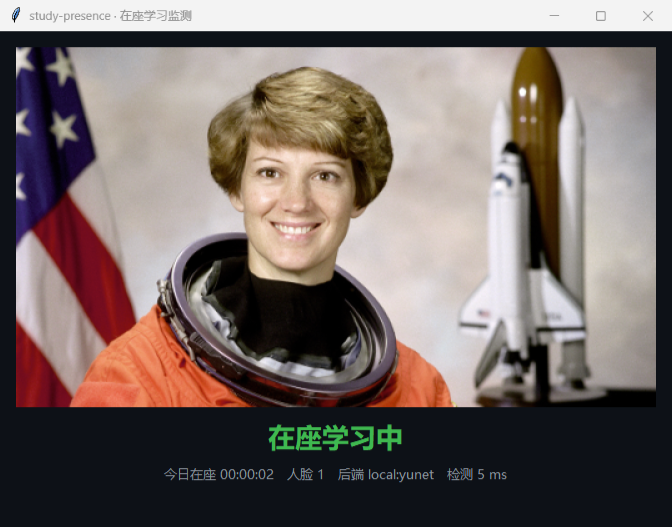
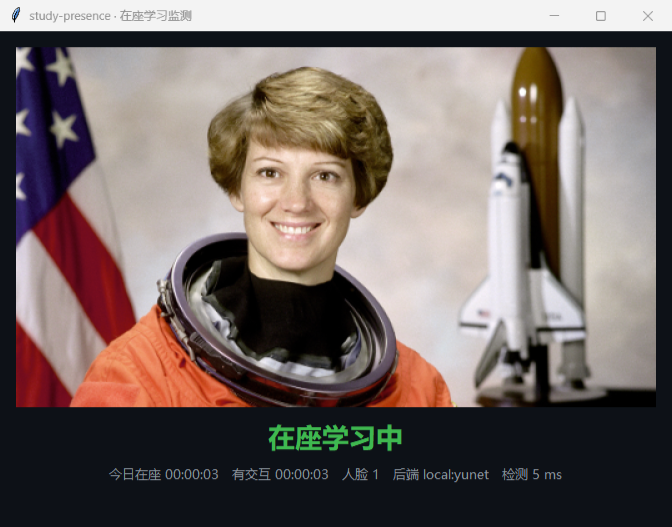
docs: 重写判定逻辑与已知局限

Changed region(s): [[0.1562, 0.8805, 0.8438, 0.9108]]

diff --git a/README.md b/README.md
@@ -1,39 +1,59 @@
 # study-presence
 
-摄像头在座学习状态监测：定时取帧 → 人脸检测 → 去抖状态机 → 在座时长入库，Tkinter 窗口实时展示。
+摄像头在座学习状态监测：合格人脸 → 时间窗去抖 → 键鼠交互证据 → 三态（离座 / 在座无交互 / 在座有交互），区间写入 SQLite，Tk 窗口实时显示，可按天出报表。
 
 检测后端可插拔：默认本地离线 OpenCV YuNet（画面不出本机、零调用成本），可切到百度云人脸检测 API。
 
 ![study-presence 运行截图](docs/screenshot.png)
 
-## 功能
+## 判定逻辑
 
-- 实时预览 + 「在座 / 离座」状态，连续 N 次观测才翻转，抑制单帧误检与短暂起身
-- 今日累计在座时长：每次在座区间写入 SQLite，程序重启后仍可累加
-- 后端可切换：`local`（离线 YuNet）／`baidu`（云端 detect，密钥只从 `.env` 读）
-- 失败不静默：检测或相机出错时把原因显示在窗口里，不把网络错误伪装成「没人」
-- 在座时长报表：按天切分历史记录，输出合计与日均，可导出 CSV
+「这个人正在学习」不是人脸检测器能回答的问题。所以这里不宣称测量专注度，只输出两个可观测、可复核的量：**在座时长**与**有交互时长**。
+
+| 状态 | 判据 |
+|---|---|
+| 离座 | 画面中央区域内没有面积达标的人脸 |
+| 在座 · 无交互 | 有合格人脸，但最近 `SP_ACTIVITY_IDLE_S` 秒内没有键鼠输入 |
+| 在座 · 有交互 | 有合格人脸，且有近期键鼠输入 |
+
+三步链：
+
+1. **合格人脸**（`app/presence/criteria.py`）：人脸框中心落在画面中央 ROI（默认横向 0.2–0.8、纵向 0.05–0.95），且面积占整帧 ≥ `SP_MIN_FACE_AREA`（默认 2%）。海报、路人、远处室友都在这一步被过滤掉。
+2. **时间窗去抖**（`app/presence/tracker.py`）：占据状态要连续满足阈值秒数才翻转（`SP_PRESENT_AFTER_S` / `SP_ABSENT_AFTER_S`）。单位是秒不是检测次数，改 `--interval` 不会改变判定的时间尺度。
+3. **交互证据**（`app/activity.py`）：Windows 下读 `GetLastInputInfo` 的空闲时长，只取秒数、不取任何输入内容；其他平台降级为纯视觉，界面显示「交互检测不可用」。
+
+由此得到两个数字：**在座时长**（全部区间合计）与**有交互时长**（只算 active 区间）。
+
+### 已知局限
+
+- 低头看书、大幅侧脸可能检测不到人脸 → 会被判成离座。这是正脸检测模型的固有限制，不引入更重的头部姿态模型就解决不了
+- 键鼠在动说明不了在学；在座无交互也可能是在看书。两个数字都以「可观测证据」命名，不叫「专注度」
+- 多人同框只判断「有没有合格人脸」，不区分是不是本人；室友坐在同一位置会共享这份时长
+- 交互证据只有 Windows 实现，其他平台退化为「在座即有交互」
 
 ## 架构
 
 ```
-CameraSource ──frame──▶ PresenceMonitor (worker thread)
-                            │  每 N 秒
-                            ▼
-                     Detector (local:yunet | baidu:detect)
-                            │  face_count
-                            ▼
-                     PresenceTracker（去抖状态机）
-                            │  PresenceEvent
-                            ▼
-                     PresenceStore（SQLite session 表）
+FrameSource ──frame──▶ PresenceMonitor (worker thread)
+                          │  每 N 秒检测
+                          ▼
+                  Detector (local:yunet | baidu:detect)
+                          │  DetectionResult（归一化人脸框）
+                          ▼
+                  PresenceCriteria（ROI + 面积过滤）
+                          │  occupied
+                          ▼
+                  PresenceTracker（秒级去抖）◀── ActivitySource（键鼠空闲时长）
+                          │  PresenceEvent（absent | idle | active）
+                          ▼
+                  PresenceStore（SQLite session 表，按 state 区分区间）
 
-     FrameUpdate / StatusUpdate ──queue──▶ StudyPresenceWindow（Tk 主线程）
+   FrameUpdate / StatusUpdate ──queue──▶ StudyPresenceWindow（Tk 主线程）
 ```
 
-- **单写者**：相机、检测器、存储只在 worker 线程里被触碰；UI 通过 `queue` 拿结果，不阻塞、不抢锁
+- **单写者**：相机、检测器、存储只在 worker 线程里被触碰；UI 通过两个队列拿结果，不阻塞、不抢锁
 - **帧不排队**：帧队列容量 1，UI 落后时丢弃旧帧，只渲染最新画面
-- **状态与时长分离**：`PresenceTracker` 只管去抖，`PresenceStore` 只管区间入库，跨天统计由 SQL 窗口裁剪得出
+- **判定与统计分离**：`criteria` 决定「算不算在座」，`tracker` 决定「什么时候翻转」，`store` 只管区间入库；报表与评估复用同一套纯函数
 - **异常显式化**：检测后端失败抛 `DetectorError`，由 worker 转成界面上的错误文案，不做 `except: pass`
 
 ## 快速开始
@@ -44,8 +64,6 @@ uv run study-presence          # 等价于 uv run python -m app
 ```
 
 首次运行 local 后端会自动下载 YuNet 模型（约 230 KB）到 `models/`；下载失败时按提示手动放到该路径即可。
-
-常用参数：
 
 ```bash
 uv run study-presence --camera 1        # 换摄像头
@@ -62,16 +80,47 @@ uv run study-presence --report 7      # 近 7 天
 uv run study-presence --report 30 --csv out/month.csv
 ```
 
-按天切分（跨午夜的会话会拆到两天），末尾给出合计与有记录天数的日均。报表只读 SQLite，不打开摄像头、不需要检测模型。
+按天切分（跨午夜的会话会拆到两天），每行给出在座与有交互两个时长，末尾是合计与有记录天数的日均。报表只读 SQLite，不打开摄像头、不需要检测模型。
 
 ```
-在座时长（近 7 天）
-2026-10-18  00:30:00
-2026-10-19  00:55:00
+在座 / 有交互时长（近 7 天）
+2026-10-18  在座 00:30:00  有交互 00:12:00
+2026-10-19  在座 00:55:00  有交互 00:41:00
 ...
-合计: 06:30:00
-有记录: 5 天，日均 01:18:00
+合计: 在座 06:30:00  有交互 03:05:00
+有记录: 5 天，日均在座 01:18:00
 ```
+
+## 判定质量评估
+
+阈值不该靠猜。准备一段标注好「何时有人、何时无人」的视频，用回放算出指标：
+
+标注 CSV（`label` 取 `absent` / `idle` / `active`；评估只判在座与否，所以 idle 与 active 都按在座计）：
+
+```csv
+start_s,end_s,label
+0,12,absent
+12,95,present
+```
+
+```bash
+uv run study-presence --evaluate demo.mp4 --labels demo.csv --stride 0.5
+uv run study-presence --evaluate demo.mp4 --labels demo.csv --sweep 0.005,0.01,0.02,0.05
+```
+
+输出（下列数字来自 12 秒合成视频：前 6 秒无人、后 6 秒有人，仅用于验证链路，不代表真实场景精度）：
+
+```
+在座判定：precision 1.000  recall 0.750  F1 0.857  准确率 0.880
+混淆矩阵：TP 9  FP 0  FN 3  TN 13
+
+最小人脸面积占比    precision  recall  F1
+0.005                  1.000   0.750  0.857
+0.020                  1.000   0.750  0.857
+0.200                  0.000   0.000  0.000
+```
+
+recall 0.75 来自 1 秒去抖延迟（人出现的瞬间不能立刻算在座），不是漏检。真实数值需要你用真实场景的视频标注后跑出来，`--sweep` 就是用来选阈值的。
 
 ## 配置
 
@@ -83,13 +132,16 @@ uv run study-presence --report 30 --csv out/month.csv
 | `SP_CAMERA_INDEX` | `0` | 摄像头编号 |
 | `SP_SOURCE` | — | 视频或图片文件路径；设置后忽略摄像头 |
 | `SP_DETECT_INTERVAL_S` | `2` | 检测间隔（秒） |
-| `SP_PRESENT_AFTER` | `2` | 连续几次检测到人脸才算在座 |
-| `SP_ABSENT_AFTER` | `3` | 连续几次没检测到人脸才算离座 |
+| `SP_PRESENT_AFTER_S` | `4` | 连续有人多少秒才算在座 |
+| `SP_ABSENT_AFTER_S` | `6` | 连续无人多少秒才算离座 |
+| `SP_MIN_FACE_AREA` | `0.02` | 人脸框面积占整帧的下限，低于视为远处的脸 |
+| `SP_TRACK_INPUT` | `1` | 是否读取键鼠空闲时长（仅 Windows 生效，`0` 关闭） |
+| `SP_ACTIVITY_IDLE_S` | `60` | 空闲超过多少秒算「无交互」 |
 | `SP_DB_PATH` | `data/presence.db` | SQLite 落盘位置，窗口与报表共用 |
 | `SP_BAIDU_API_KEY` | — | 百度智能云 API Key，`backend=baidu` 时必填 |
 | `SP_BAIDU_SECRET_KEY` | — | 百度智能云 Secret Key，同上 |
 
-数据落盘位置见 `SP_DB_PATH`：SQLite 的 `session` 表记录后端、开始、结束时间。
+数据落盘在 `SP_DB_PATH` 指向的 SQLite：`session` 表按 `state`（`active` / `idle`）记录每段区间的后端与起止时间。旧库打开时会自动补 `state` 列。
 
 ## 检测后端
 
@@ -98,23 +150,25 @@ uv run study-presence --report 30 --csv out/month.csv
 | `local`（YuNet ONNX） | `opencv-python-headless` | 首次下载模型 | 无 | 日常使用，画面不出本机 |
 | `baidu`（人脸检测 v3） | 百度智能云密钥 | 每次检测上传一帧 JPEG | 按调用计费 | 需要云端多属性能力的演示 |
 
-云端后端带 token 缓存（提前 60 秒过期）与失效重取，并受 `SP_DETECT_INTERVAL_S` 节流。
+两个后端都返回归一化人脸框，判定链完全一致；云端后端带 token 缓存（提前 60 秒过期）与失效重取，并受 `SP_DETECT_INTERVAL_S` 节流。
 
 ## 目录结构
 
 ```
 app/
-├── __main__.py        # CLI 参数、依赖装配、启动
+├── __main__.py        # CLI 参数、依赖装配：窗口 / 报表 / 评估
 ├── sources.py         # 帧来源协议：摄像头 / 视频与图片文件
 ├── camera.py          # cv2.VideoCapture 的封装（唯一 open/read/close 入口）
 ├── frames.py          # 缩放、BGR→RGB、JPEG base64
-├── pipeline.py        # worker 线程：取帧 → 检测 → 状态机 → 入库
+├── activity.py        # 交互证据：GetLastInputInfo 空闲时长（含降级实现）
+├── pipeline.py        # worker 线程：取帧 → 检测 → 判据 → 状态机 → 入库
 ├── report.py          # 会话区间按天切分，渲染报表与 CSV
+├── evaluation.py      # 回放标注视频，算 precision / recall / F1 与阈值曲线
 ├── config/settings.py # SP_* 环境变量 → 不可变 Settings
-├── detectors/         # base 协议 + local(YuNet) + baidu(云端)
-├── presence/          # tracker 状态机、store 会话存储
+├── detectors/         # base 协议（人脸框）+ local(YuNet) + baidu(云端)
+├── presence/          # criteria 判据、tracker 状态机、store 会话存储
 └── ui/                # window.py 窗口（主线程只渲染）、format.py 纯展示格式化
-tests/                 # 状态机、存储、帧工具、两个后端、pipeline
+tests/                 # 判据、状态机、存储、两个后端、pipeline、报表、评估
 ```
 
 ## 质量检查
@@ -132,25 +186,28 @@ uv run pytest
 
 | 决定 | 理由 | 代价 |
 |---|---|---|
-| 采集/检测/入库全在 worker 线程，UI 只消费队列 | 旧版在 Tk 主线程 `while True` + `sleep`，检测期间窗口冻结 | 跨线程只靠队列通信，关闭时要处理 join 时序 |
-| 帧队列容量 1，满了丢旧帧 | 预览延迟比丢帧更影响观感；积压会让画面越来越落后于真实时间 | 极端卡顿时会跳帧 |
-| 状态翻转要求连续 N 次同向观测 | 单帧误检不能翻转状态，起身倒水不该打断时长统计 | 翻转延迟为 N × 检测间隔 |
-| 存区间而不是存累计秒数 | 累计值无法回溯校验，也不能按任意窗口重算；区间可以裁出今日、本周、任意区间 | 查询要按天切分并裁剪边界 |
+| 只统计 ROI 内、面积达标的人脸 | 旧实现「画面里有任意一张脸就算在座」，海报、路人、室友都能刷时长 | 需要标定 ROI，人坐得太偏会漏判 |
+| 去抖阈值用秒而不是观测次数 | 次数阈值与 `--interval` 耦合，改采样率等于改判定标准 | 阈值要按时间理解，配置项变多 |
+| 输出「在座」与「有交互」两个时长，不叫专注度 | 人脸存在性证明不了在学习，键鼠活动也证明不了；只报告能复核的量 | 界面与报表各多一列 |
+| 交互证据缺失时不惩罚（在座即有交互） | 不为没有证据的结论编造数据，同时在界面标注「交互检测不可用」 | 非 Windows 平台无法区分 idle / active |
+| 阈值来源是 `--sweep` 曲线 | 拍脑袋的阈值无法解释，也无法随场景调整 | 评估需要一段标注视频 |
+| 采集/检测/入库全在 worker 线程，UI 只消费队列 | 旧版在 Tk 主线程 `while True` + `sleep`，检测期间窗口冻结 | 跨线程只靠队列，关闭要处理 join 时序 |
+| 帧队列容量 1，满了丢旧帧 | 预览延迟比丢帧更影响观感；积压会让画面越来越落后 | 极端卡顿时会跳帧 |
+| 存区间而不是存累计秒数 | 累计值无法回溯校验，也不能按任意窗口重算 | 查询要按天切分并裁剪边界 |
 | 未结束的会话查询时裁到 `now` | 崩溃或强退不会丢掉当前这段在座 | 查询多一个 `ended_at IS NULL` 分支 |
 | 后端失败抛 `DetectorError` 并显示在窗口 | 旧版 `except: return False` 把网络/鉴权故障伪装成「没人学习」 | 界面多一行错误文案 |
-| 默认本地 YuNet，云端作为可选后端 | 零成本、离线、画面不出本机，评审者不申请密钥也能跑通 | 本地只有人脸数，没有年龄性别等云端属性 |
-| 配置只走 `SP_*` 环境变量，非法值启动即失败 | 校验集中在一处，避免隐式默认值与静默降级 | 改配置需要重启 |
 
 ## 隐私
 
 - `local` 后端全程离线：帧只在内存里，不落盘、不上传
+- 交互证据只读「距上次输入多少秒」，不读键值、不留输入历史
 - `baidu` 后端会把单帧 JPEG 上传到百度云；密钥只从 `.env` 读，仓库里没有任何凭据
 
 ## Roadmap
 
+- 头部姿态/视线方向，缓解「低头看书被判离座」
 - 托盘常驻 + 开机自启
-- 多目标场景下区分「本人」与他人（当前只判断人脸数量）
-- 在座趋势图表（周/月曲线，终端内或导出 HTML）
+- 多目标场景下区分「本人」与他人（当前只判断有没有合格人脸）
 
 ## 许可
 
